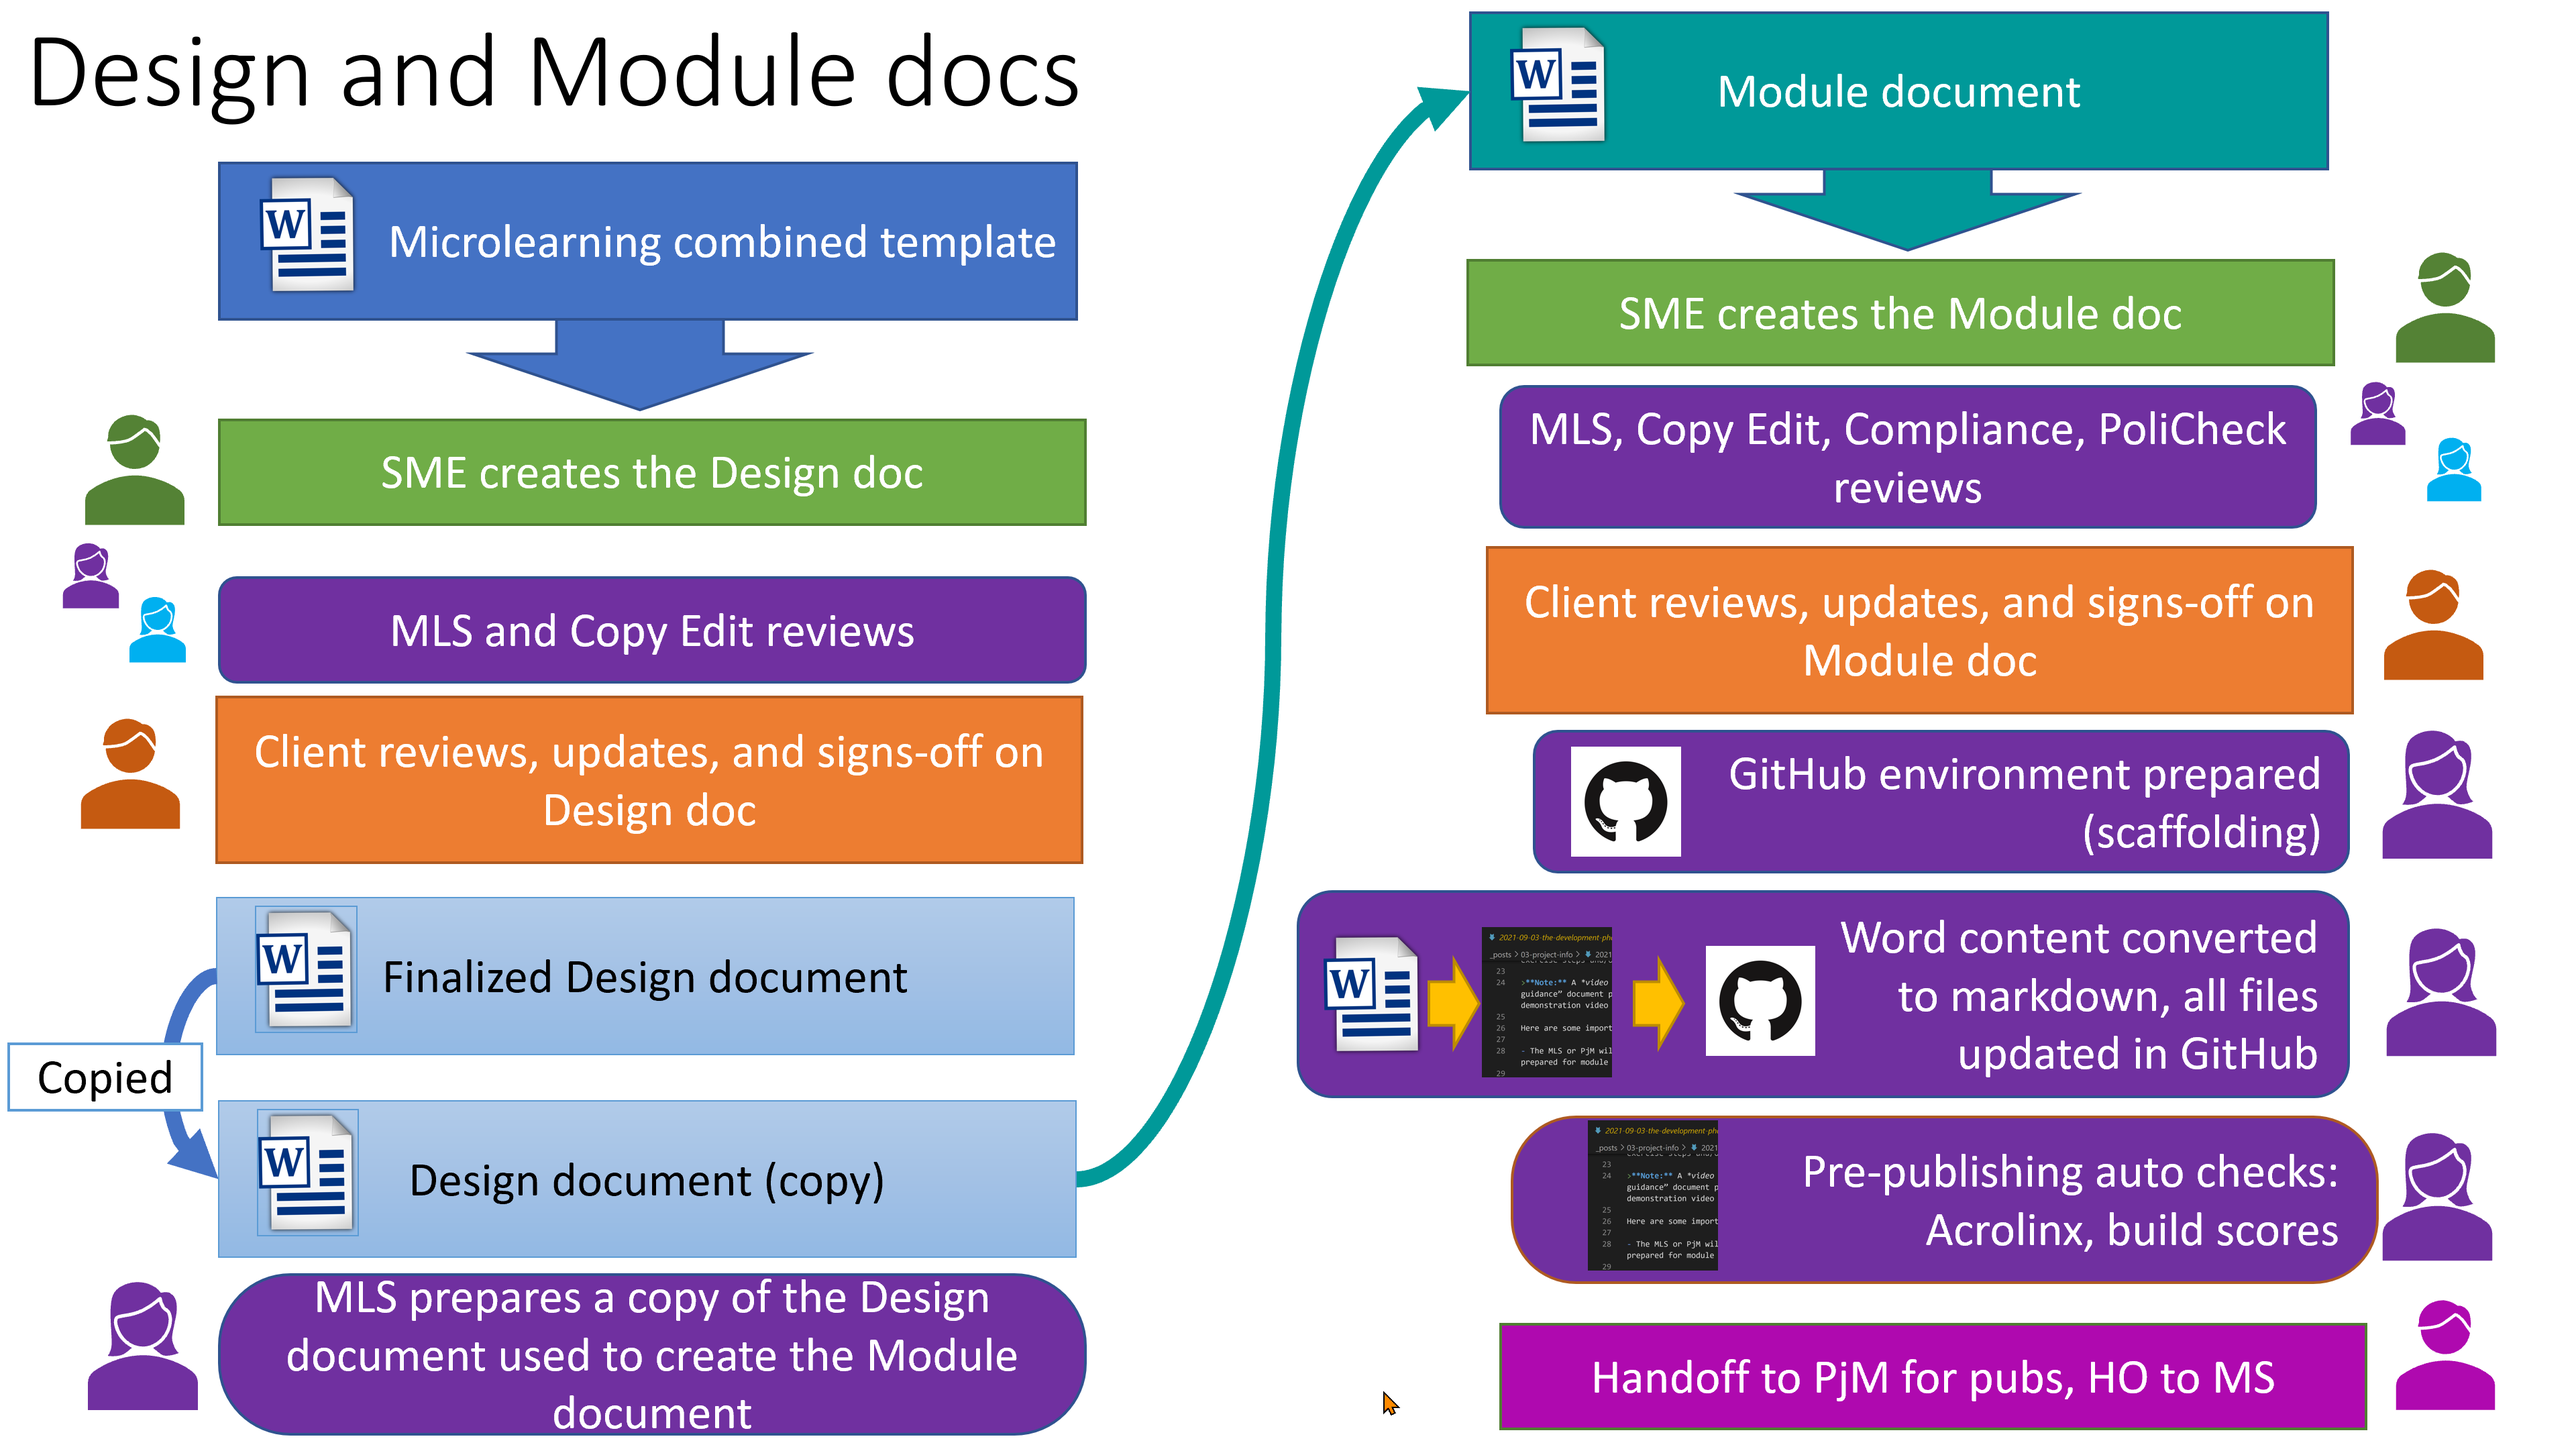
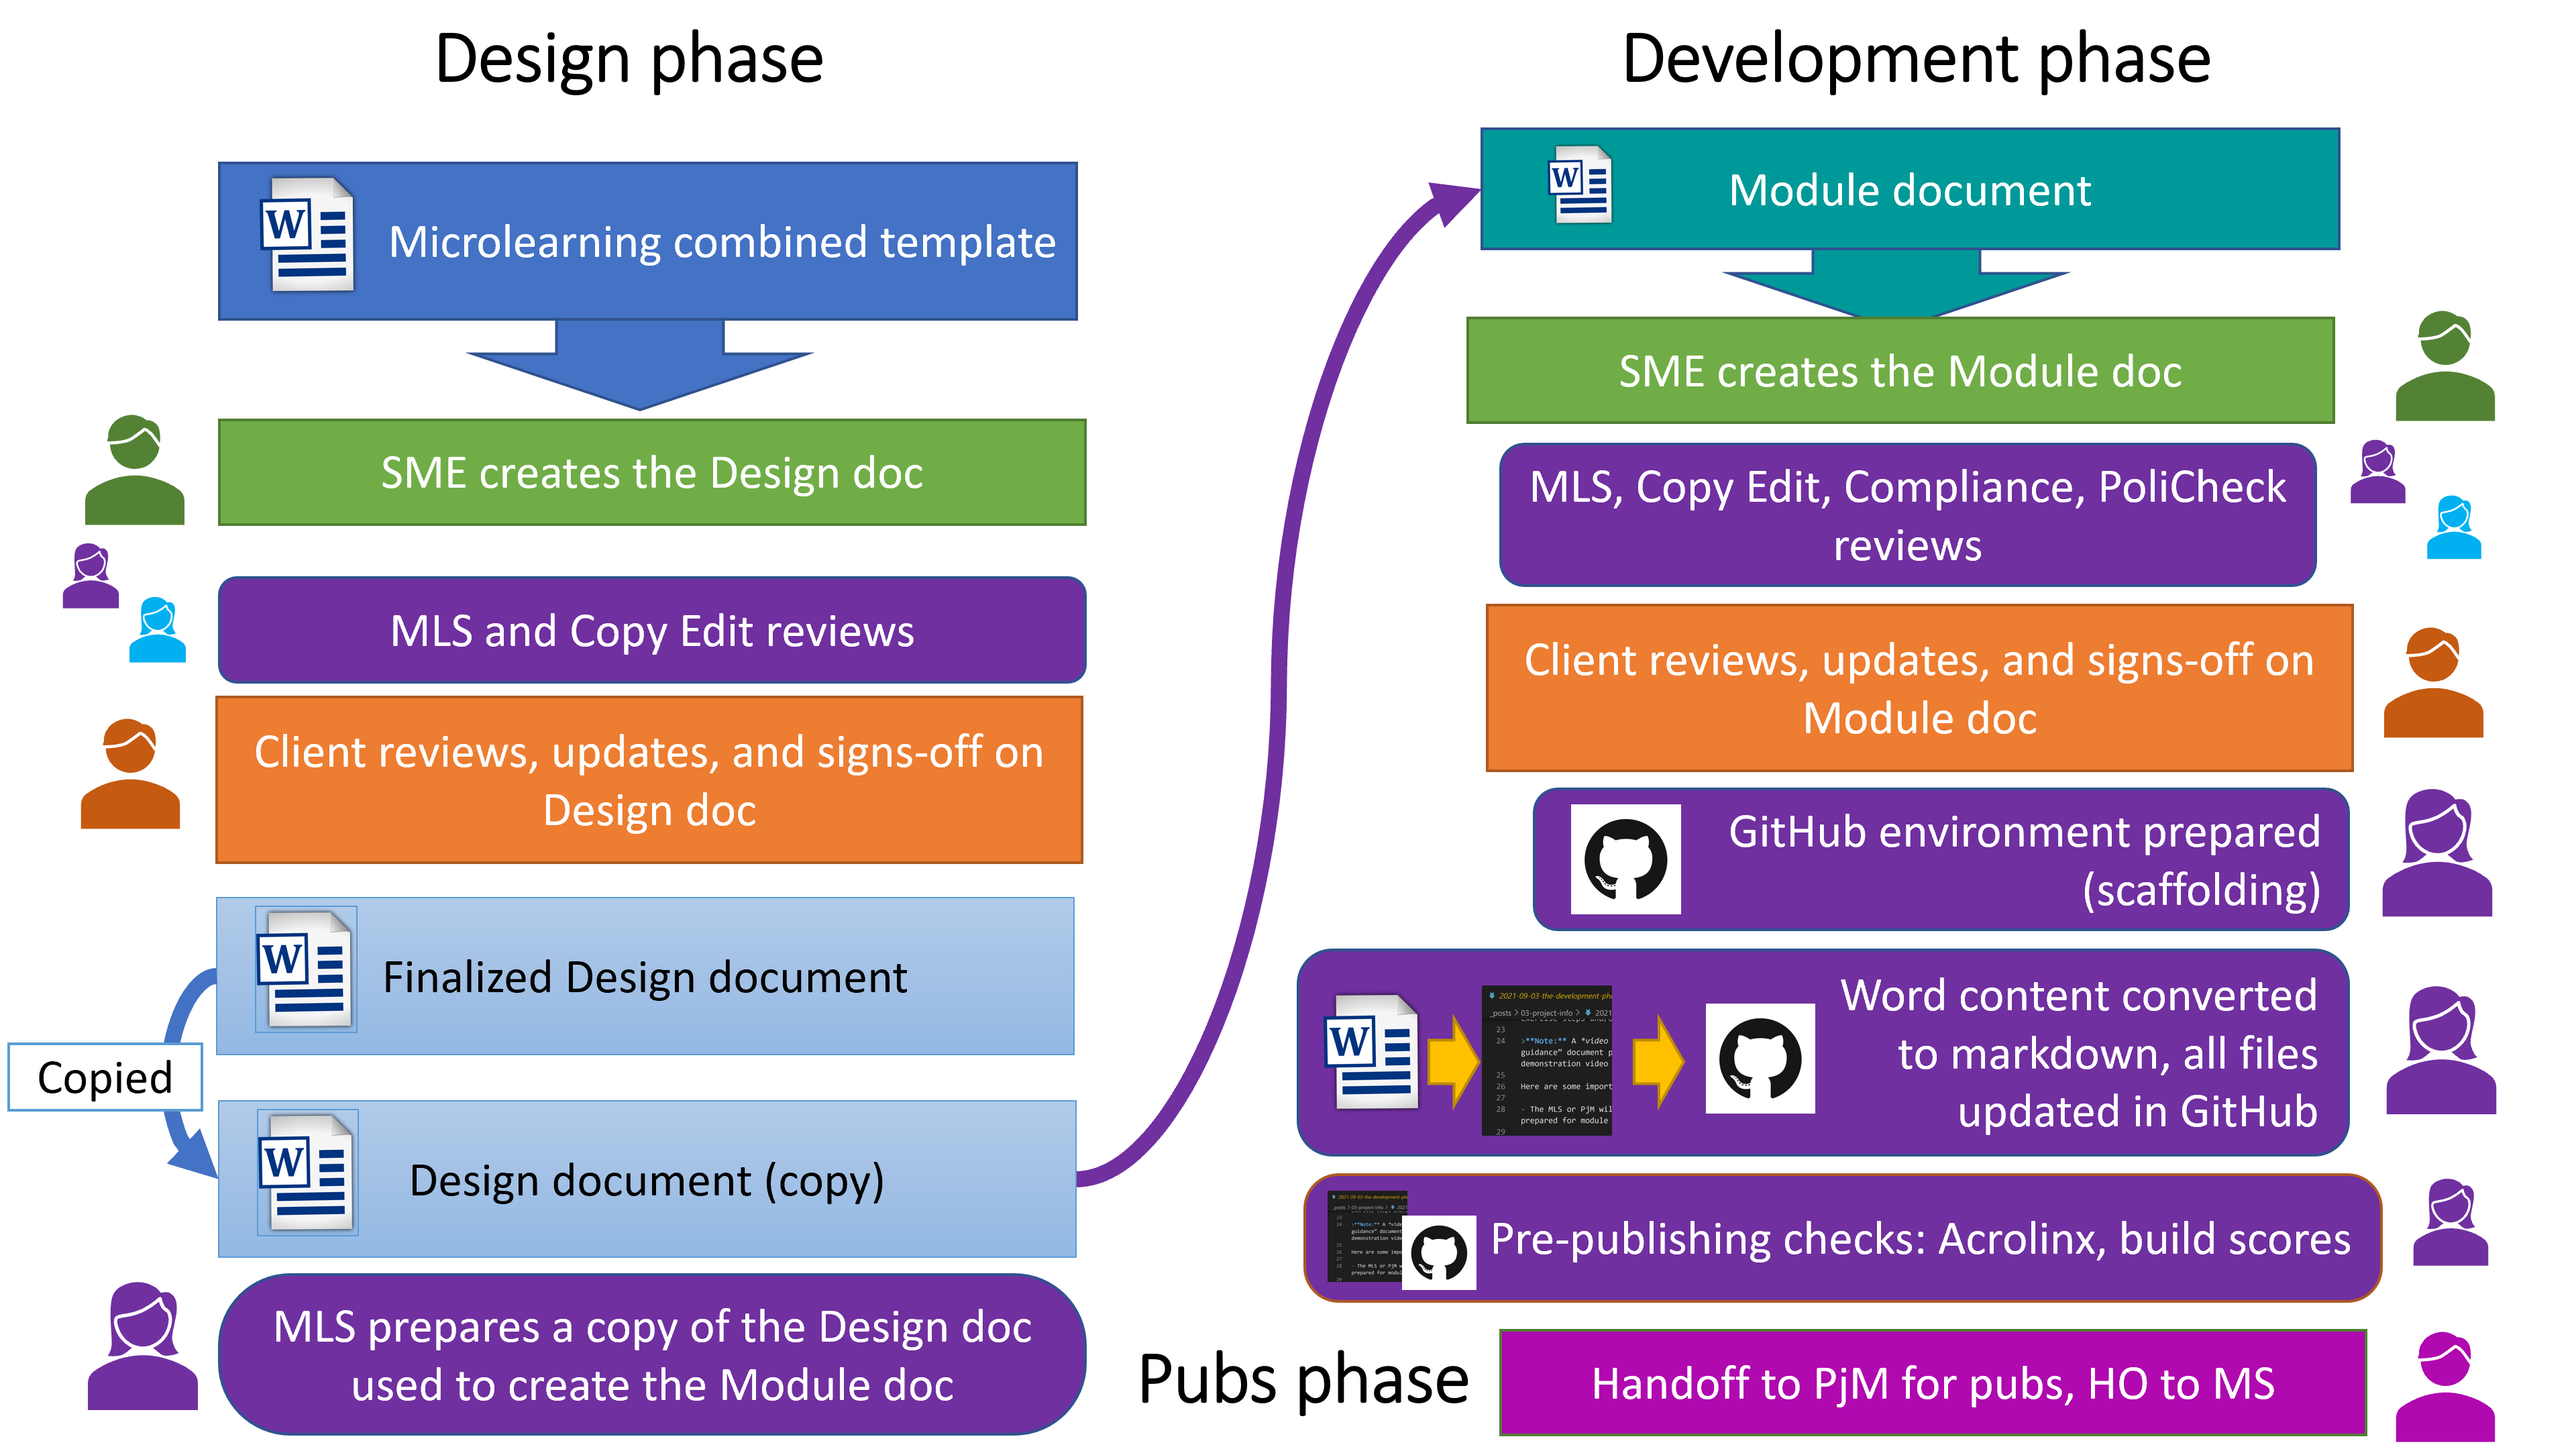
new graphic mod lc

diff --git a/_posts/03-project-info/2021-09-01-introduction-to-microlearning-projects.md b/_posts/03-project-info/2021-09-01-introduction-to-microlearning-projects.md
@@ -36,9 +36,4 @@ This guide focuses on Phase 3 [Design]({{site.baseurl}}/project-info/the-design-
 
 >**Note:** This image provides a high-level overview of the module-creation process. For detailed information and activities, please refer to your project schedule and ask your PjM more information.
 
-Here is another graphic to illustrate the lifecycle of the Design and then the Module.
-
-![Design and module documents' lifecycle](../assets/images/module-lifecycle.png)
-
-
 {% include paginator.html %}

diff --git a/_posts/02-people/2021-09-03-mls.md b/_posts/02-people/2021-09-03-mls.md
@@ -65,7 +65,9 @@ This page is intended to give an overview of the tasks and responsibilities of t
 
   - Hand off the module doc to PjM for publishing.
 
- 
+Here's a graphic to illustrate the steps listed previously.
+
+![Design and module documents' lifecycle](../assets/images/module-lifecycle.png)
 
 ## Module design phase
 
